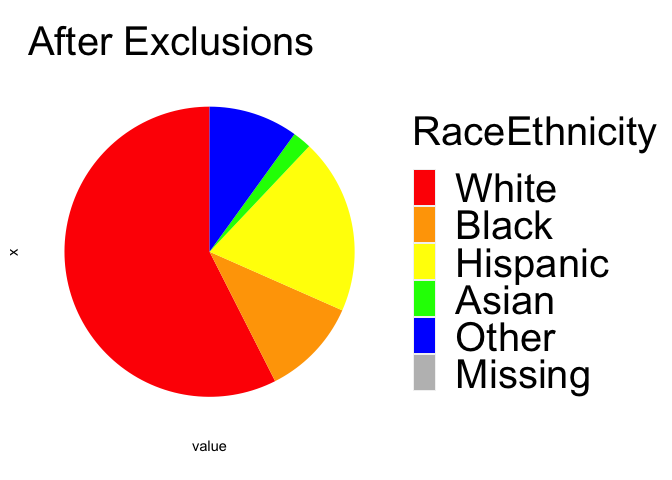
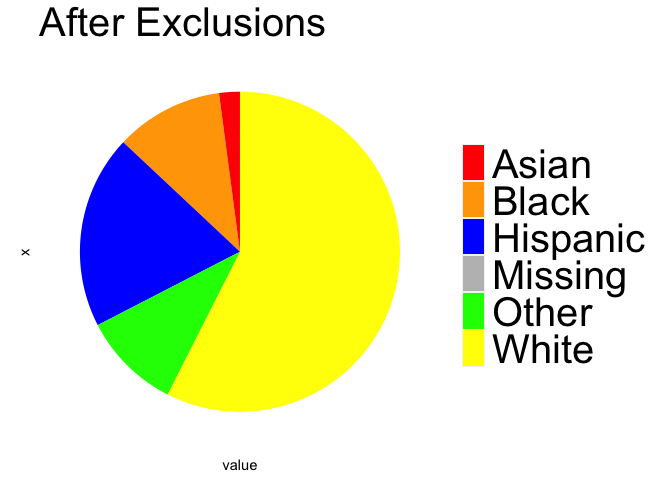
supplementary figure S1 update

diff --git a/Step1_SampleConstruction/SampleConstruction.md b/Step1_SampleConstruction/SampleConstruction.md
@@ -736,9 +736,9 @@ paste0(participantsTSVSubjs,' remain')
 ###########∆∆∆∆∆∆∆∆∆∆∆∆∆∆∆∆∆∆∆∆∆∆∆##############
 
 # can overlay two pie charts: starting raceEth Comp and Ending. Tuck into area that is pink now
-startingdf=test[test$variable=='cbclInclude',]
+startingdf=plotdf2[plotdf2$variable=='cbclInclude',]
 startingdf=startingdf[startingdf$value==1,]
-endingdf=test[test$variable=='pTSV',]
+endingdf=plotdf2[plotdf2$variable=='pTSV',]
 endingdf=endingdf[endingdf$value==1,]
 # now tabulate them to get in proper plotting format
 startingdfTab=tabulate(startingdf$RaceEthn)
@@ -746,14 +746,17 @@ endingdfTab=tabulate(endingdf$RaceEthn)
 # starting df: adding 0 for placeholder for missing category (consistent coloration)
 startingdf=data.frame(c(startingdfTab,0),factor(c("White","Black","Hispanic","Asian","Other","Missing"),levels=c("White","Black","Hispanic","Asian","Other","Missing")))
 colnames(startingdf)<-c('value','RaceEthnicity')
-ggplot(startingdf, aes(x="", y=value, fill=RaceEthnicity)) +
+
+# now make color assignment equivalent
+
+ggplot(startingdf, aes(x="", y=value, fill = factor(RaceEthnicity, levels = alph_order))) +
   geom_bar(stat="identity", width=1) +
   coord_polar("y", start=0)+ggtitle('Before Exclusions')+
   theme(axis.text = element_blank(),
         axis.ticks = element_blank(),
         panel.grid  = element_blank(),panel.background = element_blank(),
         plot.title = element_text(size = 30),
-        legend.text = element_text(size=30),legend.title = element_text(size=30))+scale_fill_manual(values = my_colors)
+        legend.text = element_text(size=30),legend.title = element_blank())+scale_fill_manual(values = my_colors)
 ```
 
 ![](SampleConstruction_files/figure-gfm/unnamed-chunk-15-1.png)<!-- -->
@@ -762,14 +765,14 @@ ggplot(startingdf, aes(x="", y=value, fill=RaceEthnicity)) +
 # plot df is both with race labels
 endingdf=data.frame(c(endingdfTab,0),factor(c("White","Black","Hispanic","Asian","Other","Missing"),levels=c("White","Black","Hispanic","Asian","Other","Missing")))
 colnames(endingdf)<-c('value','RaceEthnicity')
-ggplot(endingdf, aes(x="", y=value, fill=RaceEthnicity)) +
+ggplot(endingdf, aes(x="", y=value, fill = factor(RaceEthnicity, levels = alph_order))) +
   geom_bar(stat="identity", width=1) +
   coord_polar("y", start=0)+ggtitle('After Exclusions')+
   theme(axis.text = element_blank(),
         axis.ticks = element_blank(),
         panel.grid  = element_blank(),panel.background = element_blank(),
         plot.title = element_text(size = 30),
-        legend.text = element_text(size=30),legend.title = element_text(size=30))+scale_fill_manual(values = my_colors)
+        legend.text = element_text(size=30),legend.title = element_blank())+scale_fill_manual(values = my_colors)
 ```
 
 ![](SampleConstruction_files/figure-gfm/unnamed-chunk-15-2.png)<!-- -->
